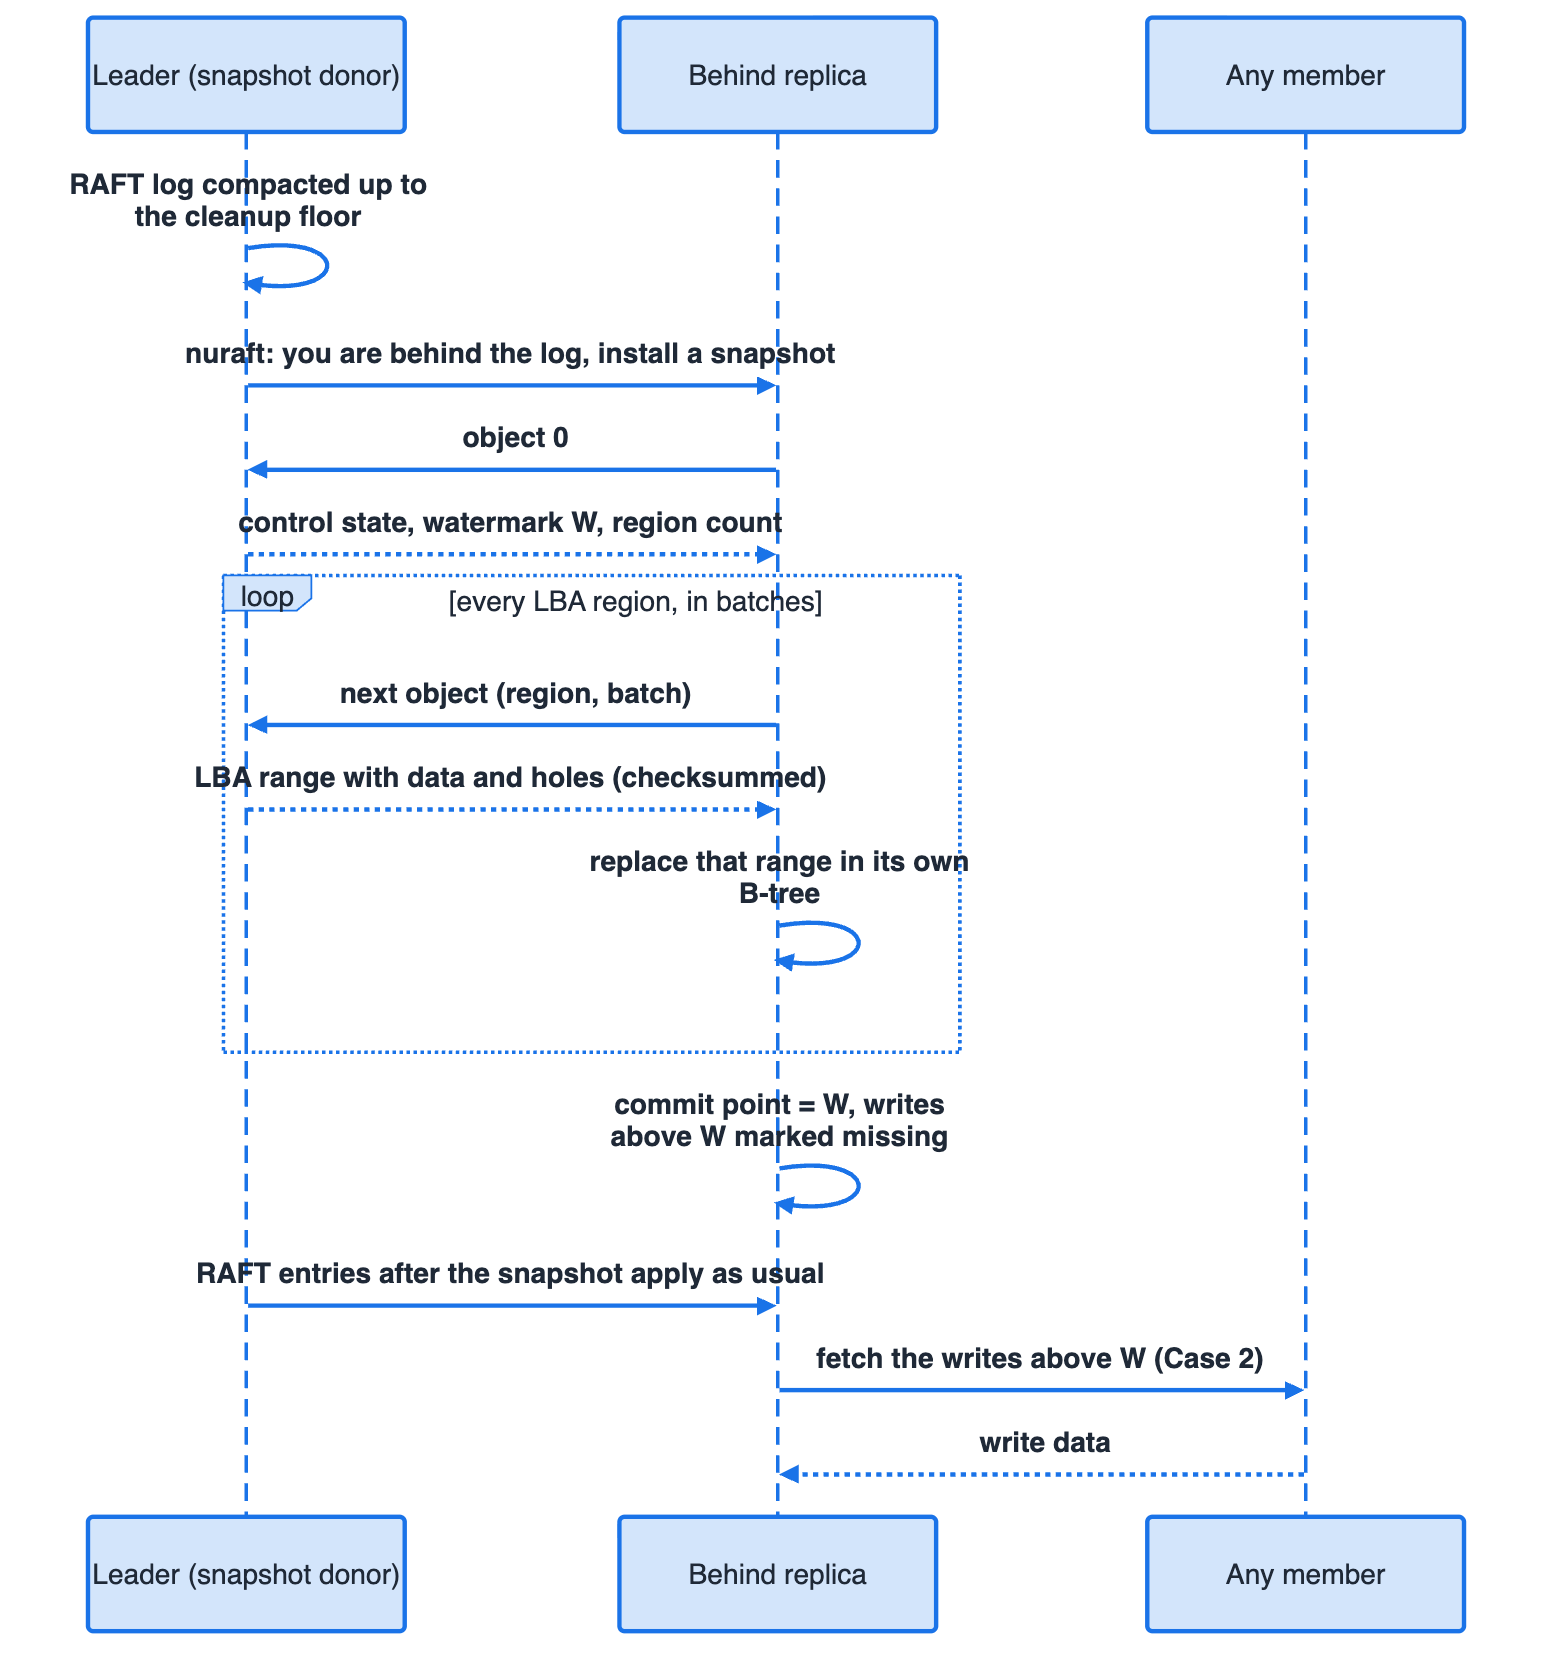
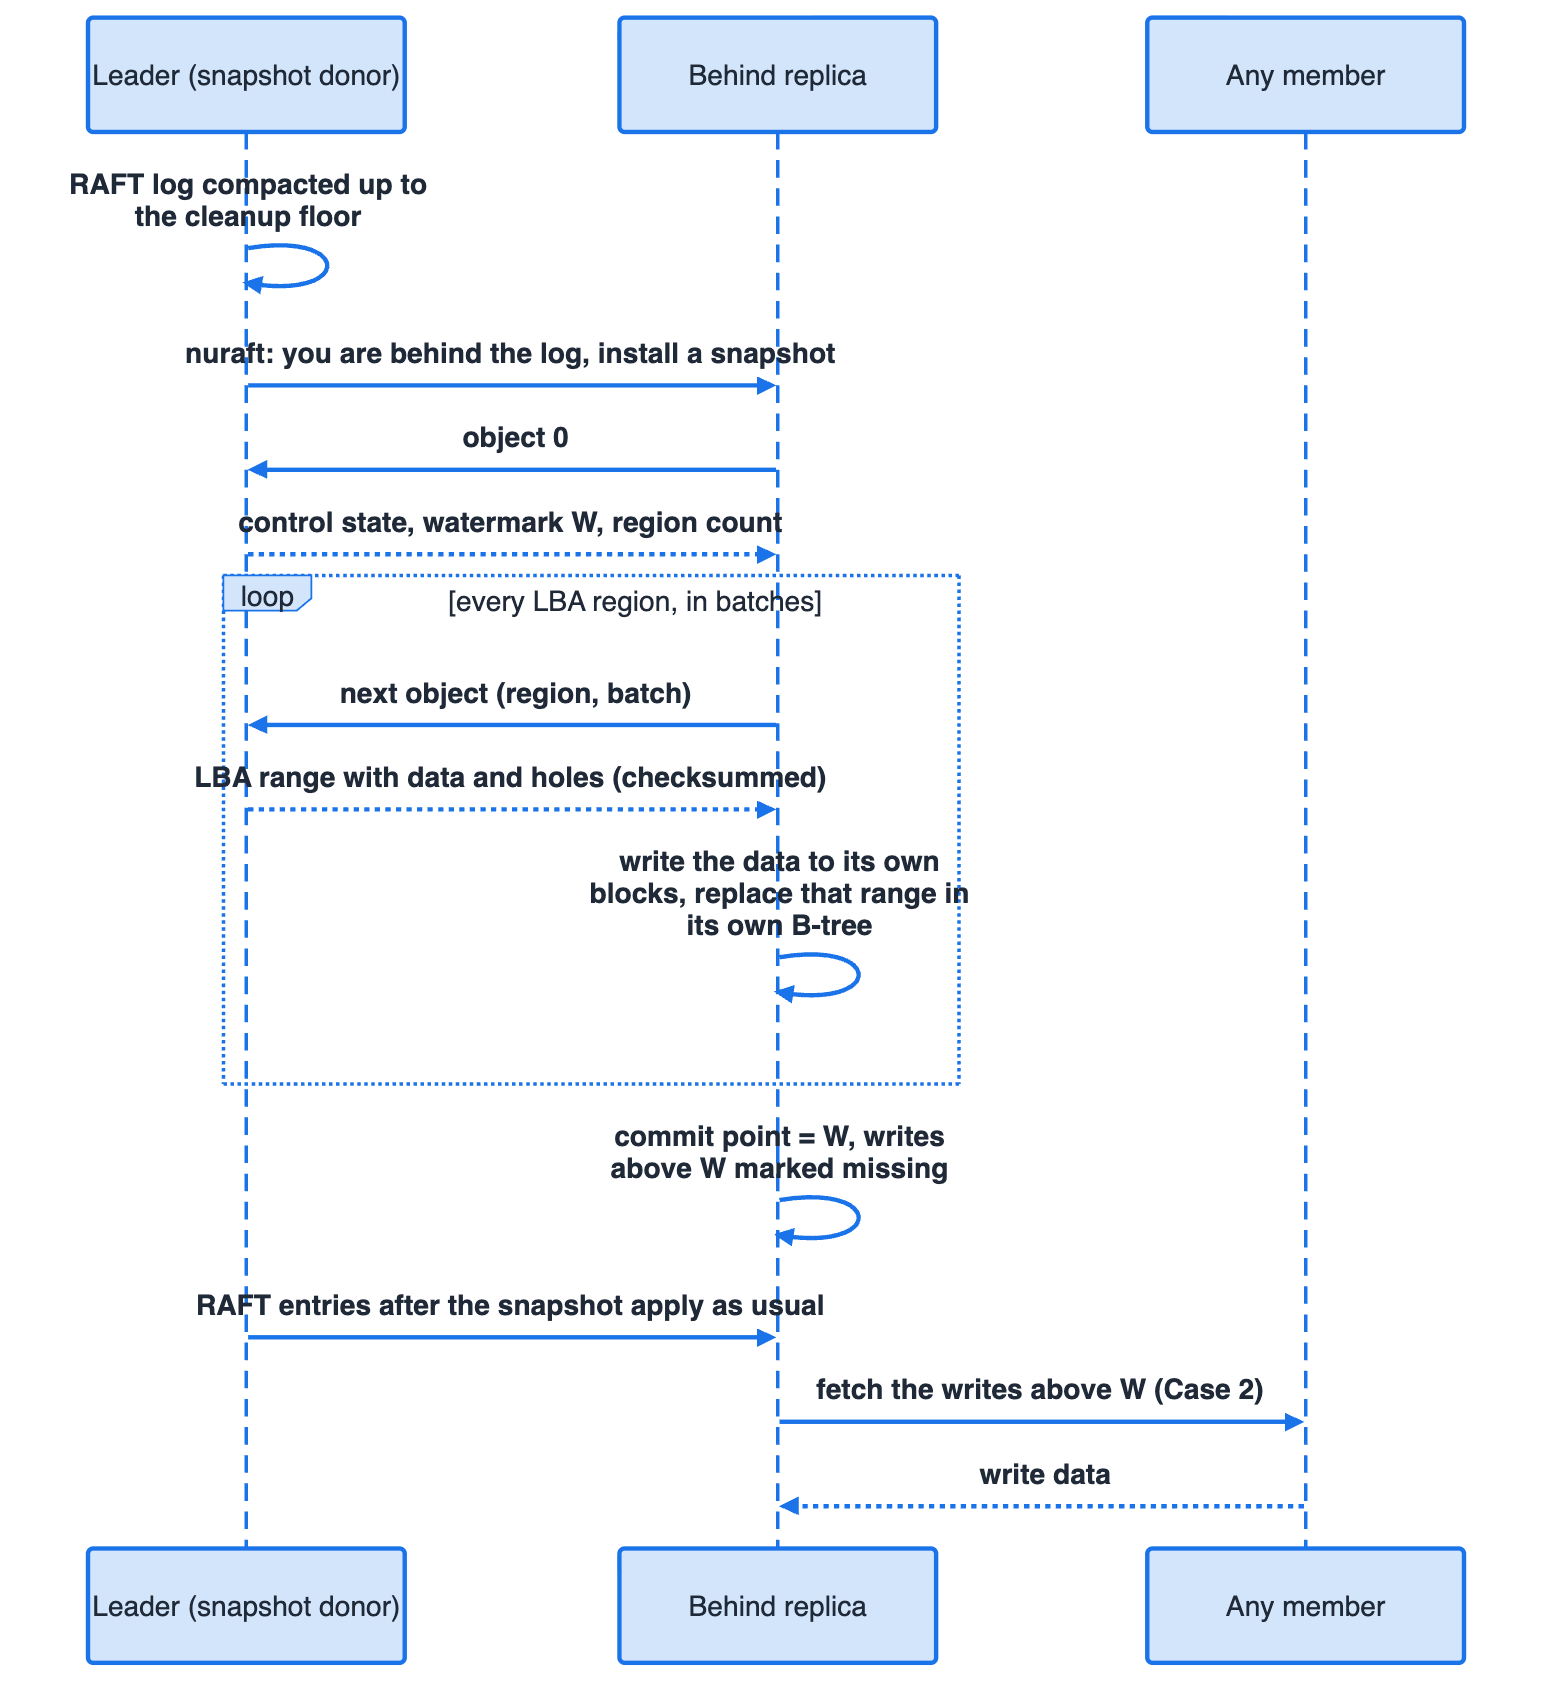
docs/craft: a snapshot sends mapped data, not the B-tree
Three passages read as if the leader ships its B-tree. Like HomeObject, the leader walks its own B-tree to find each
mapped LBA's blocks and sends the data; the receiver writes it to blocks it allocates and builds its own index
(already stated in section 4.9, requirement 1). Reworded the overview, the gap-size table row and the rejected
option b'; figure 6's receiver step now says it writes the data to its own blocks.

diff --git a/docs/craft/resync.md b/docs/craft/resync.md
@@ -329,10 +329,11 @@ sequenceDiagram
 ### Case 6: Snapshot for a replica past retention
 
 Journals are bounded. If a replica fell so far behind that the writes it needs were cleaned up everywhere, it
-cannot heal through Case 2. It instead receives a **snapshot**: the volume's whole state (the HomeBlocks B-tree with
-its data) as of one point, then the writes after that point. The transfer rides **nuraft's own snapshot
-mechanism** on the volume's RAFT group, the way HomeObject resyncs a PG; HomeBlocks only supplies the content
-through the RAFT listener's snapshot callbacks (§4.9).
+cannot heal through Case 2. It instead receives a **snapshot**: the volume's mapped data as of one point, then the
+writes after that point. The B-tree is not sent: the leader walks its own B-tree to find each mapped LBA's blocks
+and sends the data; the receiver writes it to blocks it allocates and builds its own index entries. The transfer
+rides **nuraft's own snapshot mechanism** on the volume's RAFT group, the way HomeObject resyncs a PG; HomeBlocks
+only supplies the content through the RAFT listener's snapshot callbacks (§4.9).
 
 #### Flow
 
@@ -361,7 +362,7 @@ sequenceDiagram
     loop every LBA region, in batches
         R->>L: next object (region, batch)
         L-->>R: LBA range with data and holes (checksummed)
-        R->>R: replace that range in its own B-tree
+        R->>R: write the data to its own blocks, replace that range in its own B-tree
     end
     R->>R: commit point = W, writes above W marked missing
     L->>R: RAFT entries after the snapshot apply as usual
@@ -954,7 +955,7 @@ streamed the snapshot over the CRAFT peer plane instead; §6 says why that was d
 | Gap | Mechanism | Cost proportional to |
 |---|---|---|
 | Still in the journal (every missing slot is above the members' reclaim floor) | The FetchData loop (§4.3): range requests, byte-bounded and continued | The **writes** missed. Every version is replayed, including overwritten ones |
-| Past retention | **nuraft snapshot:** the leader's B-tree with its data as of watermark `W`, then FetchData for the writes above `W` | The volume's **mapped data**, whatever the gap size |
+| Past retention | **nuraft snapshot:** the volume's mapped data as of watermark `W` (the leader walks its B-tree and sends each LBA's data; the receiver builds its own index), then FetchData for the writes above `W` | The volume's **mapped data**, whatever the gap size |
 
 #### Triggers
 
@@ -1143,8 +1144,8 @@ depend on regions touched, not volume size, and needs no per-entry dLSN in the i
 dLSN would *not* work: zero writes erase index entries, so unmaps would be invisible. *Deferred: the full B-tree
 snapshot is the baseline. Revisit once outage-length and volume-size data are available.*
 
-**A CRAFT peer-plane snapshot stream (the earlier option b′).** An earlier draft streamed the B-tree member to
-member over the CRAFT peer plane (`snap_begin` / `snap_chunk` / `snap_end`), with nuraft snapshots carrying control
+**A CRAFT peer-plane snapshot stream (the earlier option b′).** An earlier draft streamed the volume's mapped data
+(found by walking the B-tree) member to member over the CRAFT peer plane (`snap_begin` / `snap_chunk` / `snap_end`), with nuraft snapshots carrying control
 state only and a data-side trigger (`reclaimed_below`). It would let any healthy member be the source and would
 cover the C2 member without a membership change. *Rejected:* it is a second snapshot transport, with new wire ops,
 leases, pins and source selection, when nuraft already provides one on the volume's RAFT group, and the team's
